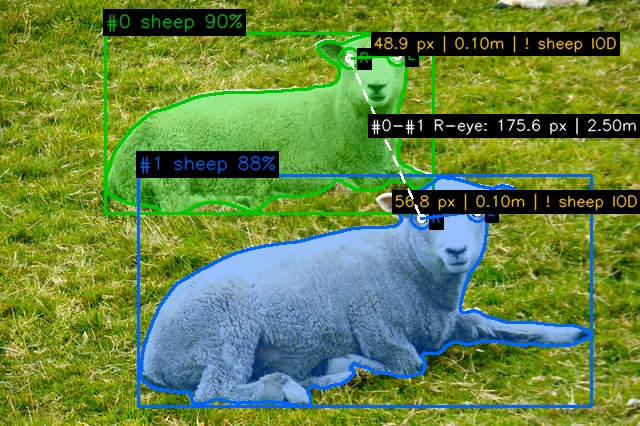
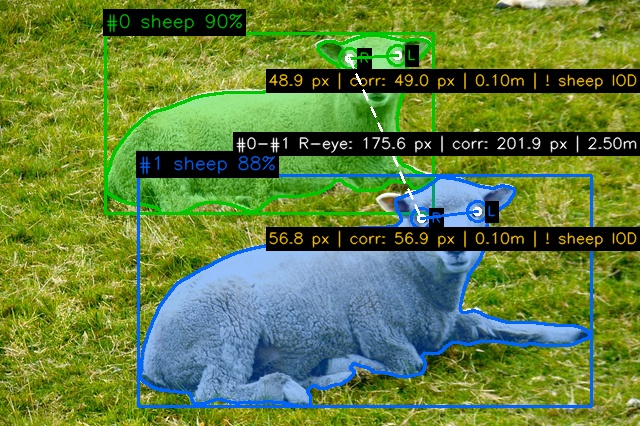
docs: update distance label examples and API docs for cumulative display

Changed region(s): [[0.3438, 0.061, 1.0, 0.3662], [0.4062, 0.4272, 1.0, 0.6103]]

diff --git a/README.md b/README.md
@@ -114,24 +114,25 @@ Swagger UI: `http://localhost:8000/docs`
 
 #### Depth Mode Details
 
-| Mode | Model | Output | Speed | Description |
-|------|-------|--------|-------|-------------|
-| `none` | — | Pixel distance only | Instant | No depth model, fastest option |
-| `fast` | Depth Anything V2 | Relative depth | ~2s | Perspective-corrected pixel distance |
-| `metric` | Apple Depth Pro | Metric depth (meters) | ~30-60s | True 3D distance + sanity check |
+| Mode | Model | Output (cumulative) | Speed |
+|------|-------|---------------------|-------|
+| `none` | — | `pixel_distance` | Instant |
+| `fast` | Depth Anything V2 | + `depth_corrected_px` | ~2s |
+| `metric` | Apple Depth Pro | + `metric_distance_m` + sanity check | ~30-60s |
 
+> Each mode includes all fields from the previous mode. `metric` returns all three layers.
 > If Depth Pro is not installed and `metric` is selected, the system automatically falls back to `fast` mode and logs a warning.
 
 ### Examples
 
 ```bash
-# Full pipeline with metric depth (default, ~30-60s)
+# Full pipeline with all 3 layers (default, ~30-60s)
 curl -X POST "http://localhost:8000/api/v1/analyze/287545"
 
 # Full pipeline, pixel distance only (fastest)
 curl -X POST "http://localhost:8000/api/v1/analyze/287545?depth_pro=none"
 
-# Full pipeline with fast depth (~2s)
+# Full pipeline with depth-corrected pixel distance (~2s)
 curl -X POST "http://localhost:8000/api/v1/analyze/287545?depth_pro=fast"
 
 # Segmentation only, JSON only
@@ -139,6 +140,10 @@ curl -X POST "http://localhost:8000/api/v1/analyze/287545?steps=segment&visualiz
 
 # Eye detection with visualization, no depth
 curl -X POST "http://localhost:8000/api/v1/analyze/287545?steps=eyes&depth_pro=none"
+
+# Upload image (no COCO required)
+curl -X POST "http://localhost:8000/api/v1/analyze/upload" \
+  -F "file=@my_photo.jpg" -G -d "depth_pro=fast"
 ```
 
 ## Example Output
@@ -154,22 +159,22 @@ The annotated image shows all three layers of the pipeline output:
 
 #### Reading the Distance Labels
 
-**Intra-animal label** (on solid lines):
+**Intra-animal label** (on solid lines) — cumulative by depth mode:
 
-With metric depth (Depth Pro):
 ```
-48.9 px | 0.10m | ! sheep IOD
-```
-- `48.9 px` — Layer 1: pixel distance
-- `0.10m` — Layer 3: metric distance estimated by Depth Pro (meters)
-- `! sheep IOD` — Sanity check result against known biology
+# depth_pro=none
+48.9 px
 
-With fast depth (DA V2):
-```
+# depth_pro=fast (DA V2)
 48.9 px | corr: 52.3 px
+
+# depth_pro=metric (Depth Pro) — includes all layers
+48.9 px | corr: 52.3 px | 0.10m | ! sheep IOD
 ```
 - `48.9 px` — Layer 1: pixel distance
 - `corr: 52.3 px` — Layer 2: depth-corrected pixel distance (perspective-compensated)
+- `0.10m` — Layer 3: metric distance estimated by Depth Pro (meters)
+- `! sheep IOD` — Sanity check result against known biology
 
 **IOD** = Inter-Ocular Distance (the distance between an animal's two eyes). Each species has a known biological IOD range used to validate whether the metric measurement is reasonable.
 
@@ -178,21 +183,23 @@ With fast depth (DA V2):
 - `!` (yellow) = **WARNING** — outside range but within 50% tolerance
 - `x` (red) = **FAIL** — clearly unreasonable, likely eye detection or depth error
 
-**Inter-animal label** (on dashed lines):
+**Inter-animal label** (on dashed lines) — cumulative by depth mode:
 
-With metric depth:
 ```
-#0-#1 R-eye: 175.6 px | 2.50m
-```
+# depth_pro=none
+#0-#1 R-eye: 175.6 px
 
-With fast depth:
-```
+# depth_pro=fast
 #0-#1 R-eye: 170.5 px | corr: 184.7 px
+
+# depth_pro=metric
+#0-#1 R-eye: 175.6 px | corr: 184.7 px | 2.50m
 ```
 - `#0-#1` — animal pair IDs
 - `R-eye` — measured between each animal's right eye
 - `175.6 px` — pixel distance
-- `2.50m` or `corr: 184.7 px` — metric or depth-corrected distance (no sanity check — no biological reference for inter-animal distance)
+- `corr: 184.7 px` — depth-corrected pixel distance
+- `2.50m` — metric distance (no sanity check — no biological reference for inter-animal distance)
 
 ## Test Images
 
@@ -269,8 +276,7 @@ animal-metrology/
 │   ├── test_annotations/           # Minimal COCO annotation JSON
 │   └── sample_results.csv          # Pipeline output CSV
 ├── scripts/
-│   ├── run_demo.py                 # One-command demo
-│   └── generate_architecture.py    # Architecture diagram
+│   └── run_demo.py                 # One-command demo
 ├── docs/architecture.png
 ├── Dockerfile, docker-compose.yml
 ├── requirements.txt, .env.example

diff --git a/README.zh-TW.md b/README.zh-TW.md
@@ -114,24 +114,25 @@ Swagger UI：`http://localhost:8000/docs`
 
 #### 深度模式說明
 
-| 模式 | 模型 | 輸出 | 速度 | 說明 |
-|------|------|------|------|------|
-| `none` | — | 僅像素距離 | 即時 | 不使用深度模型，最快 |
-| `fast` | Depth Anything V2 | 相對深度 | ~2 秒 | 透視修正的像素距離 |
-| `metric` | Apple Depth Pro | 度量深度（公尺） | ~30-60 秒 | 真實 3D 距離 + 合理性檢查 |
+| 模式 | 模型 | 輸出（累計） | 速度 |
+|------|------|-------------|------|
+| `none` | — | `pixel_distance` | 即時 |
+| `fast` | Depth Anything V2 | + `depth_corrected_px` | ~2 秒 |
+| `metric` | Apple Depth Pro | + `metric_distance_m` + 合理性檢查 | ~30-60 秒 |
 
+> 每個模式包含前一模式的所有欄位。`metric` 回傳完整三層結果。
 > 若未安裝 Depth Pro 但選擇了 `metric`，系統會自動降級為 `fast` 模式並記錄警告。
 
 ### 範例
 
 ```bash
-# 完整管線，度量深度（預設，約 30-60 秒）
+# 完整管線，三層距離（預設，約 30-60 秒）
 curl -X POST "http://localhost:8000/api/v1/analyze/287545"
 
 # 完整管線，僅像素距離（最快）
 curl -X POST "http://localhost:8000/api/v1/analyze/287545?depth_pro=none"
 
-# 完整管線，快速深度（約 2 秒）
+# 完整管線，深度修正像素距離（約 2 秒）
 curl -X POST "http://localhost:8000/api/v1/analyze/287545?depth_pro=fast"
 
 # 僅分割，僅 JSON
@@ -139,6 +140,10 @@ curl -X POST "http://localhost:8000/api/v1/analyze/287545?steps=segment&visualiz
 
 # 眼部偵測加視覺化，不使用深度
 curl -X POST "http://localhost:8000/api/v1/analyze/287545?steps=eyes&depth_pro=none"
+
+# 上傳圖片（不需要 COCO 資料集）
+curl -X POST "http://localhost:8000/api/v1/analyze/upload" \
+  -F "file=@my_photo.jpg" -G -d "depth_pro=fast"
 ```
 
 ## 輸出範例
@@ -154,22 +159,22 @@ curl -X POST "http://localhost:8000/api/v1/analyze/287545?steps=eyes&depth_pro=n
 
 #### 距離標籤解讀
 
-**Intra-animal 標籤**（實線上）：
+**Intra-animal 標籤**（實線上）— 依深度模式累計顯示：
 
-使用度量深度（Depth Pro）：
 ```
-48.9 px | 0.10m | ! sheep IOD
-```
-- `48.9 px` — 第一層：像素距離
-- `0.10m` — 第三層：Depth Pro 估算的度量距離（公尺）
-- `! sheep IOD` — 合理性檢查結果
+# depth_pro=none
+48.9 px
 
-使用快速深度（DA V2）：
-```
+# depth_pro=fast（DA V2）
 48.9 px | corr: 52.3 px
+
+# depth_pro=metric（Depth Pro）— 包含所有層
+48.9 px | corr: 52.3 px | 0.10m | ! sheep IOD
 ```
 - `48.9 px` — 第一層：像素距離
 - `corr: 52.3 px` — 第二層：深度修正後的像素距離（已補償透視壓縮）
+- `0.10m` — 第三層：Depth Pro 估算的度量距離（公尺）
+- `! sheep IOD` — 合理性檢查結果
 
 **IOD** = Inter-Ocular Distance（雙眼間距）。每個物種有已知的生物學 IOD 範圍，用來驗證度量結果是否合理。
 
@@ -178,21 +183,23 @@ curl -X POST "http://localhost:8000/api/v1/analyze/287545?steps=eyes&depth_pro=n
 - `!`（黃色）= **WARNING** — 超出範圍但在 50% 容許範圍內
 - `x`（紅色）= **FAIL** — 明顯不合理，可能是眼部偵測或深度估計有誤
 
-**Inter-animal 標籤**（虛線上）：
+**Inter-animal 標籤**（虛線上）— 依深度模式累計顯示：
 
-使用度量深度：
 ```
-#0-#1 R-eye: 175.6 px | 2.50m
-```
+# depth_pro=none
+#0-#1 R-eye: 175.6 px
 
-使用快速深度：
-```
+# depth_pro=fast
 #0-#1 R-eye: 170.5 px | corr: 184.7 px
+
+# depth_pro=metric
+#0-#1 R-eye: 175.6 px | corr: 184.7 px | 2.50m
 ```
 - `#0-#1` — 動物配對 ID
 - `R-eye` — 以各動物的右眼為測量點
 - `175.6 px` — 像素距離
-- `2.50m` 或 `corr: 184.7 px` — 度量距離或深度修正距離（無合理性檢查 — 動物間距離沒有生物學參考值）
+- `corr: 184.7 px` — 深度修正後的像素距離
+- `2.50m` — 度量距離（無合理性檢查 — 動物間距離沒有生物學參考值）
 
 ## 測試影像
 
@@ -269,8 +276,7 @@ animal-metrology/
 │   ├── test_annotations/           # 精簡版 COCO 標註 JSON
 │   └── sample_results.csv          # 管線輸出 CSV
 ├── scripts/
-│   ├── run_demo.py                 # 一鍵展示
-│   └── generate_architecture.py    # 架構圖產生器
+│   └── run_demo.py                 # 一鍵展示
 ├── docs/architecture.png
 ├── Dockerfile, docker-compose.yml
 ├── requirements.txt, .env.example
